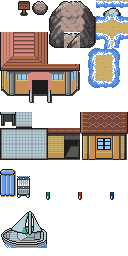
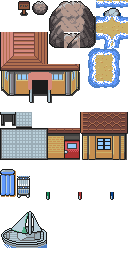
added cheriport doors

Changed region(s): [[0.625, 0.4375, 1.0, 0.5312], [0.375, 0.5, 0.625, 0.625]]

diff --git a/src/field_door.c b/src/field_door.c
@@ -145,8 +145,10 @@ static const u8 sDoorAnimTiles_islandgame_oranna_rosevale_00[]   = INCBIN_U8("gr
 static const u8 sDoorAnimTiles_islandgame_oranna_tidalcove_00[]  = INCBIN_U8("graphics/door_anims/islandgame_oranna_tidalcove_00.4bpp");
 static const u8 sDoorAnimTiles_islandgame_oranna_tidalcove_01[]  = INCBIN_U8("graphics/door_anims/islandgame_oranna_tidalcove_01.4bpp");
 static const u8 sDoorAnimTiles_islandgame_oranna_tidalcove_gym[] = INCBIN_U8("graphics/door_anims/islandgame_oranna_tidalcove_gym.4bpp");
-static const u8 sDoorAnimTiles_islandgame_ss_rain_general[]      = INCBIN_U8("graphics/door_anims/islandgame_ss_rain_general.4bpp");
+static const u8 sDoorAnimTiles_islandgame_ss_rain_general_00[]   = INCBIN_U8("graphics/door_anims/islandgame_ss_rain_general_00.4bpp");
+static const u8 sDoorAnimTiles_islandgame_ss_rain_general_01[]   = INCBIN_U8("graphics/door_anims/islandgame_ss_rain_general_01.4bpp");
 static const u8 sDoorAnimTiles_islandgame_oranna_northern_path[] = INCBIN_U8("graphics/door_anims/islandgame_oranna_northern_path.4bpp");
+static const u8 sDoorAnimTiles_islandgame_oranna_cheriport[]     = INCBIN_U8("graphics/door_anims/islandgame_oranna_cheriport.4bpp");
 
 static const struct DoorAnimFrame sDoorOpenAnimFrames[] =
 {
@@ -249,8 +251,10 @@ static const u8 sDoorAnimPalettes_islandgame_oranna_rosevale[] = {9,9,9,9,9,9,9,
 static const u8 sDoorAnimPalettes_islandgame_oranna_tidalcove_00[] = {9,9,9,9,9,9,9,9};
 static const u8 sDoorAnimPalettes_islandgame_oranna_tidalcove_01[] = {7,7,9,9,9,9,9,9};
 static const u8 sDoorAnimPalettes_islandgame_oranna_tidalcove_gym[] = {8,8,7,7,7,7,7,7};
-static const u8 sDoorAnimPalettes_islandgame_ss_rain_general[] = {2,2,2,2,2,2,2,2};
+static const u8 sDoorAnimPalettes_islandgame_ss_rain_general_00[] = {2,2,2,2,2,2,2,2};
+static const u8 sDoorAnimPalettes_islandgame_ss_rain_general_01[] = {2,2,2,2,2,2,2,2};
 static const u8 sDoorAnimPalettes_islandgame_oranna_northern_path[] = {6,6,6,6,6,6,6,6};
+static const u8 sDoorAnimPalettes_islandgame_oranna_cheriport[] = {8,8,8,8,7,7,8,8};
 
 static const struct DoorGraphics sDoorAnimGraphicsTable[] =
 {
@@ -269,8 +273,10 @@ static const struct DoorGraphics sDoorAnimGraphicsTable[] =
     {METATILE_islandgame_oranna_tidalcove_door_00,               DOOR_SOUND_NORMAL,  1, sDoorAnimTiles_islandgame_oranna_tidalcove_00, sDoorAnimPalettes_islandgame_oranna_tidalcove_00},
     {METATILE_islandgame_oranna_tidalcove_door_01,               DOOR_SOUND_NORMAL,  1, sDoorAnimTiles_islandgame_oranna_tidalcove_01, sDoorAnimPalettes_islandgame_oranna_tidalcove_01},
     {METATILE_islandgame_oranna_tidalcove_door_gym,              DOOR_SOUND_NORMAL,  1, sDoorAnimTiles_islandgame_oranna_tidalcove_gym, sDoorAnimPalettes_islandgame_oranna_tidalcove_gym},
-    {METATILE_islandgame_ss_rain_general_door,                   DOOR_SOUND_NORMAL,  1, sDoorAnimTiles_islandgame_ss_rain_general, sDoorAnimPalettes_islandgame_ss_rain_general},
+    {METATILE_islandgame_ss_rain_general_door_00,                DOOR_SOUND_NORMAL,  1, sDoorAnimTiles_islandgame_ss_rain_general_00, sDoorAnimPalettes_islandgame_ss_rain_general_00},
+    {METATILE_islandgame_ss_rain_general_door_01,                DOOR_SOUND_NORMAL,  1, sDoorAnimTiles_islandgame_ss_rain_general_01, sDoorAnimPalettes_islandgame_ss_rain_general_01},
     {METATILE_islandgame_oranna_northern_path_door,              DOOR_SOUND_NORMAL,  1, sDoorAnimTiles_islandgame_oranna_northern_path, sDoorAnimPalettes_islandgame_oranna_northern_path},
+    {METATILE_islandgame_oranna_cheriport_door,                  DOOR_SOUND_NORMAL,  1, sDoorAnimTiles_islandgame_oranna_cheriport, sDoorAnimPalettes_islandgame_oranna_cheriport},
 
     {METATILE_General_Door,                                 DOOR_SOUND_NORMAL,  1, sDoorAnimTiles_General, sDoorAnimPalettes_General},
     {METATILE_General_Door_PokeCenter,                      DOOR_SOUND_SLIDING, 1, sDoorAnimTiles_PokeCenter, sDoorAnimPalettes_PokeCenter},

diff --git a/include/constants/metatile_labels.h b/include/constants/metatile_labels.h
@@ -817,6 +817,7 @@
 // gTileset_islandgame
 #define METATILE_islandgame_maplegrove_Door01          0x248
 #define METATILE_islandgame_maplegrove_Door02          0x287
+#define METATILE_islandgame_oranna_cheriport_door      0x24C
 #define METATILE_islandgame_oranna_general_door_00     0x0C1
 #define METATILE_islandgame_oranna_general_door_01     0x0A1
 #define METATILE_islandgame_oranna_maplegrove_door_00  0x244
@@ -828,6 +829,7 @@
 #define METATILE_islandgame_oranna_tidalcove_door_01   0x252
 #define METATILE_islandgame_oranna_tidalcove_door_gym  0x295
 #define METATILE_islandgame_rosevale_Door              0x3A1
-#define METATILE_islandgame_ss_rain_general_door       0x071
+#define METATILE_islandgame_ss_rain_general_door_00    0x0FA
+#define METATILE_islandgame_ss_rain_general_door_01    0x071
 
 #endif // GUARD_METATILE_LABELS_H
